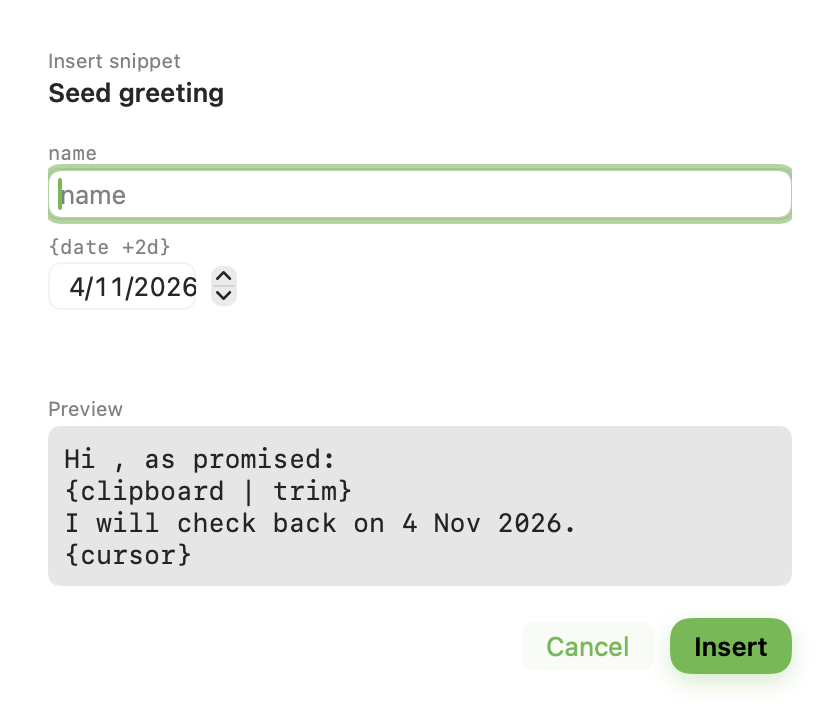
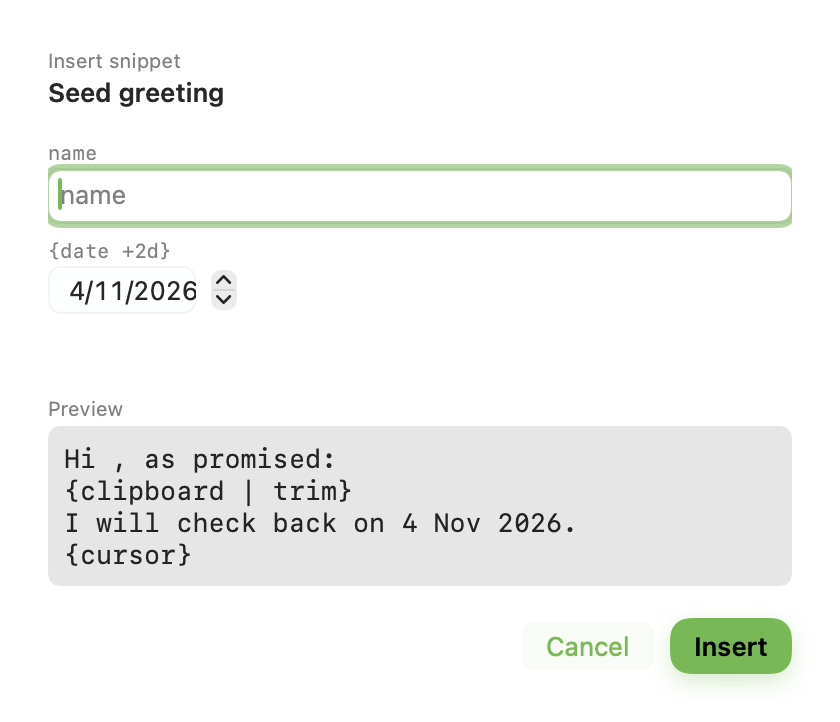
fix(snippets): lay the placeholder chips out in fixed rows
With the chips in FlowLayout, a click stopped focusing the snippet editor
when built with the Xcode 26.6 SDK, the one CI and releases use. Isolating
each candidate on that SDK cleared the height, the disabled state, the
selection delegate, the Button and its focusability, the accessibility
container and an infinite proposal; only leaving FlowLayout out passed.

Also corrects the comment from the earlier attempt, which blamed the caret
update for this.

Changed region(s): [[0.0619, 0.2742, 0.9595, 0.4266]]

diff --git a/Apps/GanchoMac/InsertPlaceholderChips.swift b/Apps/GanchoMac/InsertPlaceholderChips.swift
@@ -10,7 +10,9 @@ struct InsertPlaceholderChips: View {
     var body: some View {
         VStack(alignment: .leading, spacing: GanchoTokens.Spacing.xxs) {
             Text("Insert placeholder").font(.caption2.weight(.bold)).foregroundStyle(.secondary)
-            FlowLayout(spacing: 6) {
+            // Fixed rows: with FlowLayout here, a click stops focusing the editor
+            // above when built with the Xcode 26.6 SDK.
+            HStack(spacing: 6) {
                 chip("{field}", .field(name: "field", defaultValue: nil), id: "field") {
                     editor.insert("{field}", selecting: NSRange(location: 1, length: 5))
                 }
@@ -18,6 +20,8 @@ struct InsertPlaceholderChips: View {
                 insertion("{clipboard offset=1}", .clipboard(offset: 1), id: "clipboard-offset")
                 insertion("{date}", .date(dayOffset: 0), id: "date")
                 insertion("{cursor}", .cursor, id: "cursor")
+            }
+            HStack(spacing: 6) {
                 ForEach(SnippetTemplate.Modifier.allCases, id: \.self) { modifier in
                     chip("| \(modifier.rawValue)", nil, id: modifier.rawValue) {
                         editor.add(modifier)

diff --git a/Apps/GanchoMac/SyntaxTextView.swift b/Apps/GanchoMac/SyntaxTextView.swift
@@ -35,8 +35,8 @@ final class SnippetBodyEditorHandle {
     }
 
     fileprivate func caretChanged() {
-        // Observation notifies on every set. Publish real changes only, once the
-        // click settles, so no SwiftUI update lands inside the click that focuses the editor.
+        // Setting the text from a SwiftUI update lands here too, so publish afterwards,
+        // and only real changes: Observation notifies on every set.
         Task { @MainActor [weak self] in
             guard let self, let textView = self.textView else { return }
             let canAdd =
